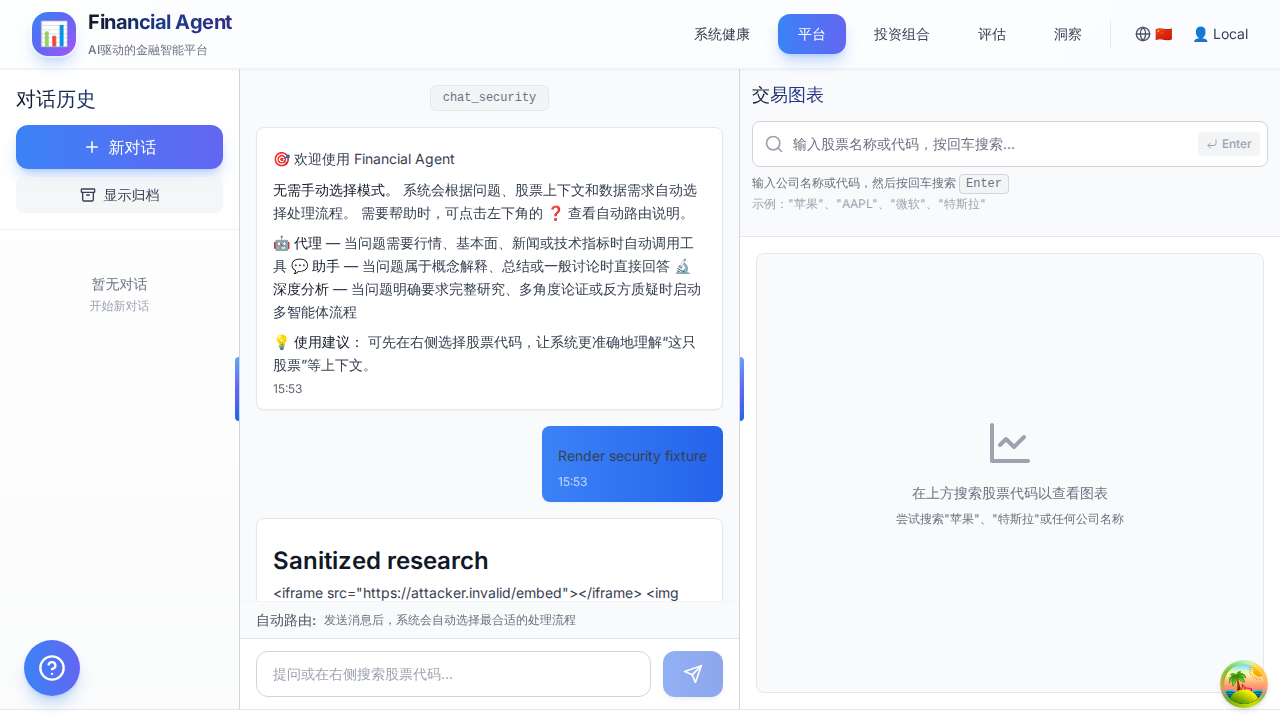
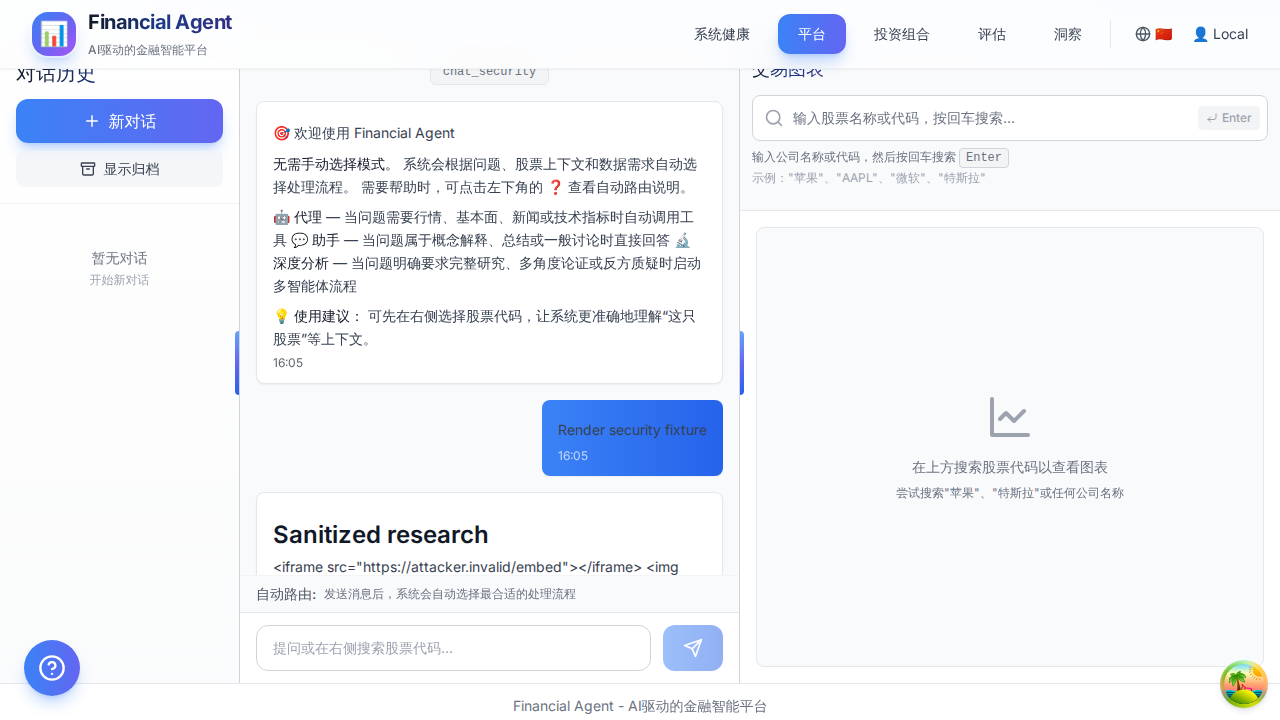
docs(ci): record browser smoke isolation
Record hotfix 1d2615e, frontend 0.32.2, and refreshed curated browser evidence.

diff --git a/docs/features/project-hardening-version-metadata.md b/docs/features/project-hardening-version-metadata.md
@@ -1,7 +1,7 @@
 ---
 title: Authoritative Runtime Version Metadata
 status: in-progress
-version: backend@0.51.1, frontend@0.32.1
+version: backend@0.51.1, frontend@0.32.2
 last_updated: 2026-08-06
 owner: maintainer
 related_paths:
@@ -63,7 +63,7 @@ Scenario `ph-010-version-diagnostics`:
 
 1. Start the real local stack from the tested commit.
 2. Open the visible Health or Help diagnostics.
-3. Assert frontend `0.32.1` baseline/updated version and backend
+3. Assert frontend `0.32.2` baseline/updated version and backend
    `0.51.1` baseline/updated version match package metadata.
 4. Assert the backend health response reports the same backend version.
 5. Capture `docs/features/assets/ph-010/01-version-diagnostics.png`.
@@ -89,7 +89,7 @@ Health UI displays both component versions. A real restarted backend reported
 `0.51.1`, replacing the stale image metadata value.
 
 Playwright scenario `health diagnostics show matching component versions`
-asserted frontend `0.32.1` and backend `0.51.1` before capturing
+asserted frontend `0.32.2` and backend `0.51.1` before capturing
 [`assets/ph-010/01-version-diagnostics.png`](assets/ph-010/01-version-diagnostics.png).
 The screenshot used deterministic API fixtures; PH-001 separately proves the
 real backend Health page. The tested implementation commit is `960d29a`.

diff --git a/docs/features/project-hardening-ci-agent-quality-gates.md b/docs/features/project-hardening-ci-agent-quality-gates.md
@@ -1,7 +1,7 @@
 ---
 title: CI Agent Quality and Browser Gates
 status: in-progress
-version: backend@0.51.1, frontend@0.32.1
+version: backend@0.51.1, frontend@0.32.2
 last_updated: 2026-08-06
 owner: maintainer
 related_paths:
@@ -94,7 +94,7 @@ yet enabled because PH-003 remains red; therefore this task is not complete and
 must not be marked shipped.
 
 Local deterministic eval and all four project-hardening Playwright scenarios
-passed for implementation commit `960d29a`. CI-hosted evidence remains outstanding.
+passed for implementation commit `960d29a`. CI smoke isolation was corrected in commit `1d2615e`; CI-hosted evidence remains outstanding.
 
 ## Risks
 

diff --git a/docs/project/versions/frontend/CHANGELOG.md b/docs/project/versions/frontend/CHANGELOG.md
@@ -7,6 +7,12 @@ and this project adheres to [Semantic Versioning](https://semver.org/spec/v2.0.0
 
 ## [Unreleased]
 
+## [0.32.2] - 2026-08-06
+
+### CI smoke isolation
+
+- Separates the Docker-backed loopback Health scenario from deterministic PR browser smoke so CI does not require an unstarted backend process.
+
 ## [0.32.1] - 2026-08-06
 
 ### Project hardening foundation

diff --git a/docs/case-studies/2026-08-06-green-tests-hidden-contract-drift.md b/docs/case-studies/2026-08-06-green-tests-hidden-contract-drift.md
@@ -1,7 +1,7 @@
 ---
 title: Green Tests Hid a Broken Shared-Data Contract
 status: shipped
-version: backend@0.51.1, frontend@0.32.1
+version: backend@0.51.1, frontend@0.32.2
 last_updated: 2026-08-06
 owner: maintainer
 related_paths:

diff --git a/docs/features/project-hardening-insights-prefetch-contract.md b/docs/features/project-hardening-insights-prefetch-contract.md
@@ -1,7 +1,7 @@
 ---
 title: Insights Shared Prefetch Contract Repair
 status: in-progress
-version: backend@0.51.1, frontend@0.32.1
+version: backend@0.51.1, frontend@0.32.2
 last_updated: 2026-08-06
 owner: maintainer
 related_paths:

diff --git a/docs/features/project-hardening-agent-orchestration-coverage.md b/docs/features/project-hardening-agent-orchestration-coverage.md
@@ -1,7 +1,7 @@
 ---
 title: Agent Orchestration Composition Coverage
 status: planning
-version: backend@0.51.1, frontend@0.32.1
+version: backend@0.51.1, frontend@0.32.2
 last_updated: 2026-08-06
 owner: maintainer
 related_paths:

diff --git a/docs/features/project-hardening-source-decomposition.md b/docs/features/project-hardening-source-decomposition.md
@@ -1,7 +1,7 @@
 ---
 title: Oversized Source Module Decomposition
 status: planning
-version: backend@0.51.1, frontend@0.32.1
+version: backend@0.51.1, frontend@0.32.2
 last_updated: 2026-08-06
 owner: maintainer
 related_paths:

diff --git a/docs/features/project-hardening-local-network-perimeter.md b/docs/features/project-hardening-local-network-perimeter.md
@@ -1,7 +1,7 @@
 ---
 title: Local Network Perimeter Hardening
 status: in-progress
-version: backend@0.51.1, frontend@0.32.1
+version: backend@0.51.1, frontend@0.32.2
 last_updated: 2026-08-06
 owner: maintainer
 related_paths:

diff --git a/docs/features/project-hardening-reproducible-builds.md b/docs/features/project-hardening-reproducible-builds.md
@@ -1,7 +1,7 @@
 ---
 title: Reproducible Local Runtime Builds
 status: in-progress
-version: backend@0.51.1, frontend@0.32.1
+version: backend@0.51.1, frontend@0.32.2
 last_updated: 2026-08-06
 owner: maintainer
 related_paths:

diff --git a/docs/features/project-hardening-program.md b/docs/features/project-hardening-program.md
@@ -1,7 +1,7 @@
 ---
 title: Project Hardening Program
 status: in-progress
-version: backend@0.51.1, frontend@0.32.1
+version: backend@0.51.1, frontend@0.32.2
 last_updated: 2026-08-06
 owner: maintainer
 related_paths:

diff --git a/docs/architecture/overview.md b/docs/architecture/overview.md
@@ -1,7 +1,7 @@
 ---
 title: Architecture Overview
 status: shipped
-version: backend@0.51.1, frontend@0.32.1
+version: backend@0.51.1, frontend@0.32.2
 last_updated: 2026-08-06
 owner: maintainer
 related_paths:

diff --git a/docs/features/project-hardening-markdown-safety.md b/docs/features/project-hardening-markdown-safety.md
@@ -1,7 +1,7 @@
 ---
 title: Untrusted Agent Markdown Rendering Safety
 status: in-progress
-version: frontend@0.32.1
+version: frontend@0.32.2
 last_updated: 2026-08-06
 owner: maintainer
 related_paths:
